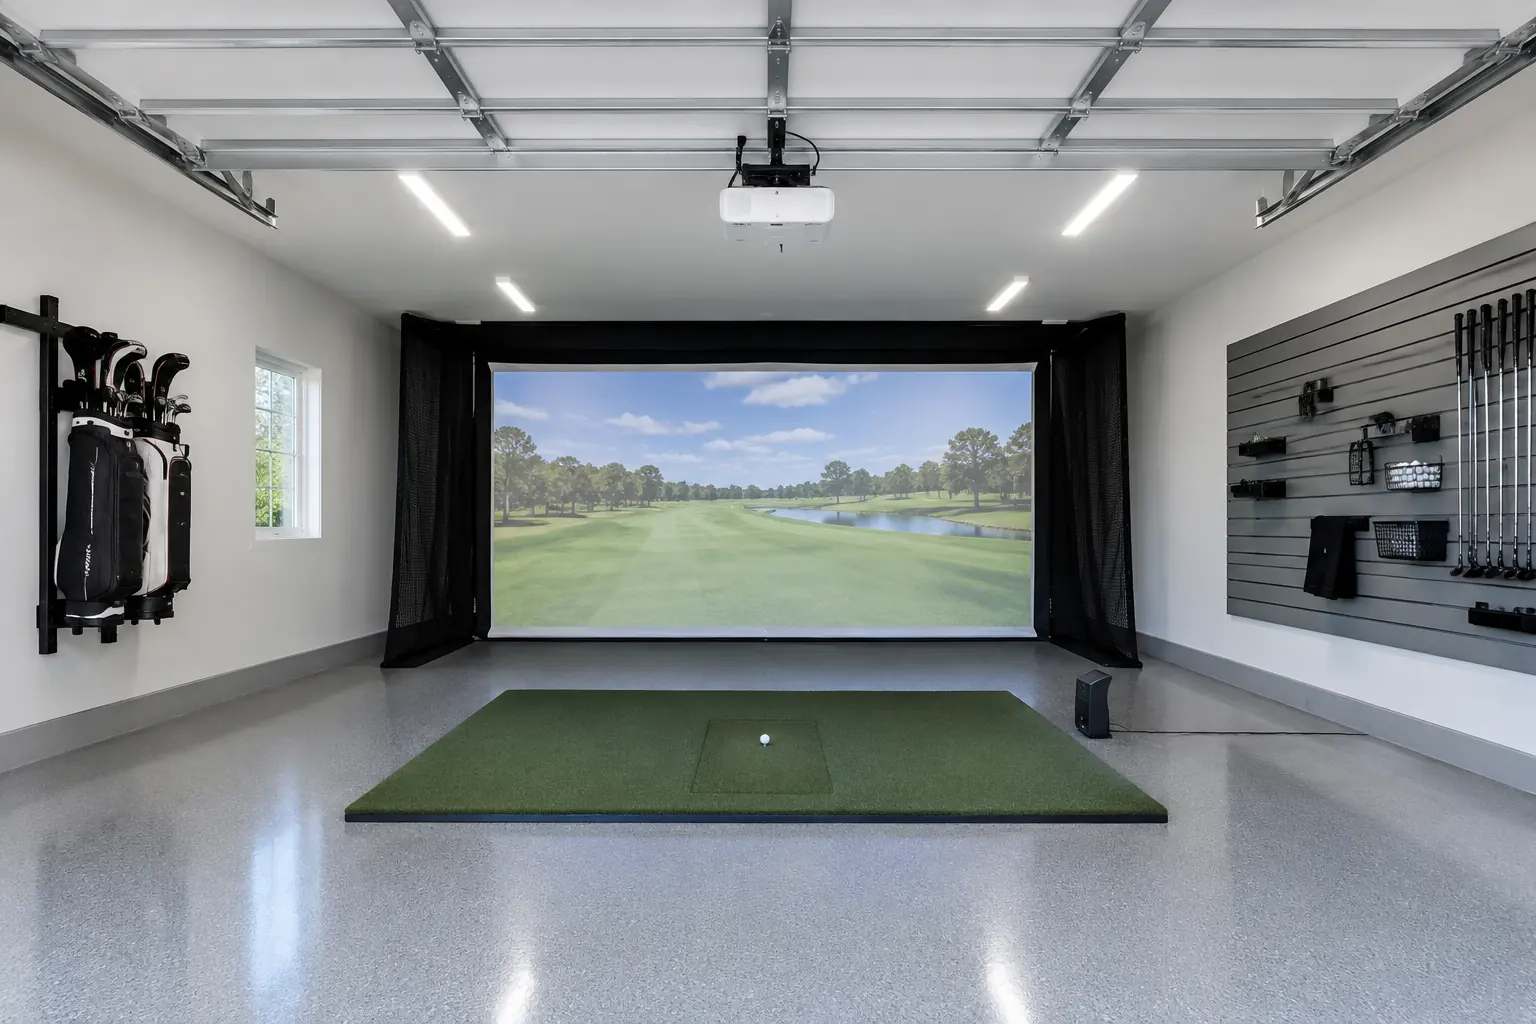
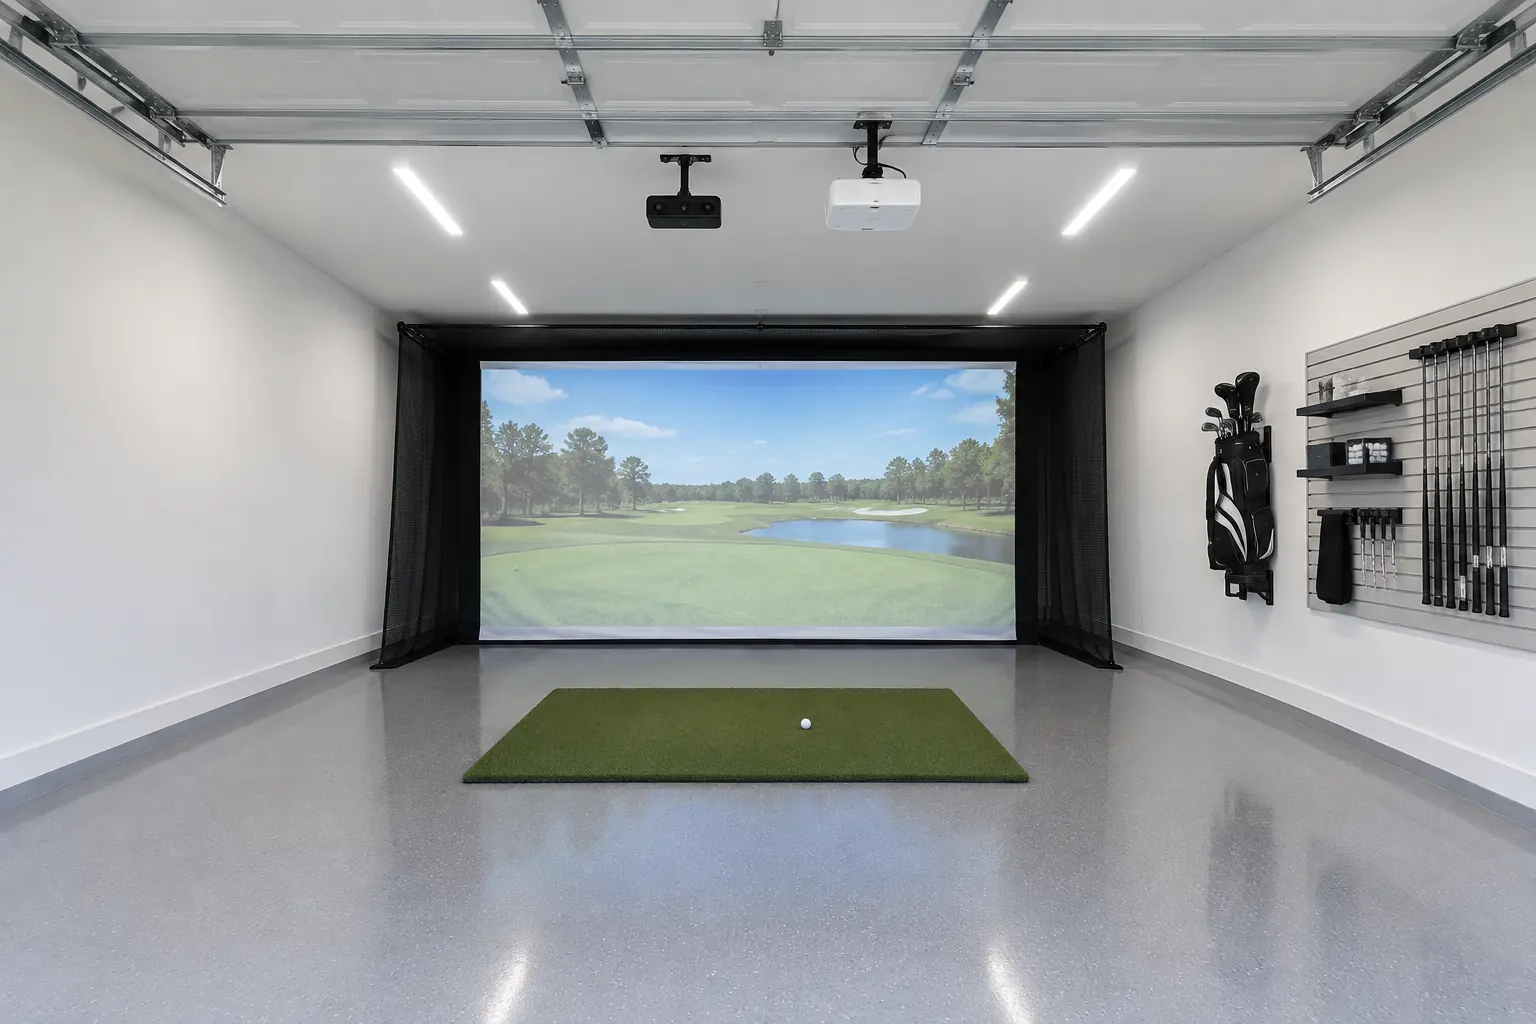
Show overhead launch monitors (ProTee VX) in photos and copy
- Replace the floor launch-monitor close-up with an overhead,
  ceiling-mounted unit above the hitting area.
- Regenerate the basement and garage room photos with ceiling-mounted
  units and a clear floor.
- Simulators page: E9 mainly installs the ProTee VX overhead system.

Claude-Session: https://claude.ai/code/session_01QXUUGkBCfmJxK8jyVqeBJW

diff --git a/simulators/index.html b/simulators/index.html
@@ -47,17 +47,17 @@
     <div class="split" style="margin-bottom:56px">
       <div>
         <p class="eyebrow">The heart of it</p>
-        <h2>It starts with the launch monitor.</h2>
-        <p class="lead">The launch monitor reads every shot. It decides how real the ball flight feels and is the biggest line in the budget, so we help you pick it first and build the rest of the room around it.</p>
+        <h2>Overhead launch monitors, out of the way.</h2>
+        <p class="lead">Most of our builds use the ProTee VX, an overhead launch monitor mounted on the ceiling above the hitting area. Nothing sits on the floor to trip over or hit, and the hitting area stays clean for right- and left-handed golfers.</p>
       </div>
-      <figure class="concept photo"><picture><source type="image/webp" srcset="/images/ai-launch-monitor-sm.webp 800w, /images/ai-launch-monitor-lg.webp 1400w" sizes="(max-width: 860px) 100vw, 560px"><img src="/images/ai-launch-monitor.jpg" width="1200" height="800" alt="Golf ball on a tee beside a launch monitor and a driver, with a simulator screen behind" loading="lazy" decoding="async"></picture></figure>
+      <figure class="concept photo"><picture><source type="image/webp" srcset="/images/ai-overhead-monitor-sm.webp 800w, /images/ai-overhead-monitor-lg.webp 1400w" sizes="(max-width: 860px) 100vw, 560px"><img src="/images/ai-overhead-monitor.jpg" width="1200" height="800" alt="Overhead launch monitor mounted on the ceiling above a golf ball on turf, with a golf course on the screen ahead" loading="lazy" decoding="async"></picture></figure>
     </div>
     <div class="center" style="margin-bottom:36px">
       <p class="eyebrow">What’s in a simulator</p>
       <h2>Five parts, one system.</h2>
     </div>
     <div class="grid g3">
-      <div class="card"><div class="icon"><svg width="24" height="24" viewBox="0 0 24 24" fill="none" stroke="currentColor" stroke-width="2" stroke-linecap="round" stroke-linejoin="round" aria-hidden="true"><rect x="2" y="7" width="20" height="13" rx="2"/><circle cx="12" cy="13.5" r="3.5"/><path d="M8 7l1.5-3h5L16 7"/></svg></div><h3>Launch monitor</h3><p>The heart of the system. High-speed cameras or radar measure ball speed, launch, spin and club path on every shot. This choice has the biggest effect on accuracy and price.</p></div>
+      <div class="card"><div class="icon"><svg width="24" height="24" viewBox="0 0 24 24" fill="none" stroke="currentColor" stroke-width="2" stroke-linecap="round" stroke-linejoin="round" aria-hidden="true"><rect x="2" y="7" width="20" height="13" rx="2"/><circle cx="12" cy="13.5" r="3.5"/><path d="M8 7l1.5-3h5L16 7"/></svg></div><h3>Launch monitor</h3><p>The heart of the system. We mainly install the ProTee VX, a ceiling-mounted camera system that measures ball speed, launch, spin and club path on every shot.</p></div>
       <div class="card"><div class="icon"><svg width="24" height="24" viewBox="0 0 24 24" fill="none" stroke="currentColor" stroke-width="2" stroke-linecap="round" stroke-linejoin="round" aria-hidden="true"><rect x="3" y="4" width="18" height="13" rx="1"/><path d="M8 21h8M12 17v4"/></svg></div><h3>Impact screen &amp; enclosure</h3><p>A tough, quiet screen you hit real balls into, with side and ceiling netting or padding to keep the room safe.</p></div>
       <div class="card"><div class="icon"><svg width="24" height="24" viewBox="0 0 24 24" fill="none" stroke="currentColor" stroke-width="2" stroke-linecap="round" stroke-linejoin="round" aria-hidden="true"><rect x="2" y="8" width="20" height="9" rx="2"/><circle cx="16" cy="12.5" r="2.5"/><path d="M6 12h4"/></svg></div><h3>Projector</h3><p>A short-throw projector mounted out of the way, sized to the screen so the picture is bright and your shadow stays off it.</p></div>
       <div class="card"><div class="icon"><svg width="24" height="24" viewBox="0 0 24 24" fill="none" stroke="currentColor" stroke-width="2" stroke-linecap="round" stroke-linejoin="round" aria-hidden="true"><path d="M2 20h20"/><path d="M5 20l1-6M9 20l-1-8M12 20V9M15 20l1-8M19 20l-1-6"/></svg></div><h3>Hitting mat &amp; turf</h3><p>A mat that’s easy on your joints and gives honest feedback, set into turf that finishes the room.</p></div>

diff --git a/CLAUDE.md b/CLAUDE.md
@@ -30,6 +30,8 @@ E9 is a new business. Do not claim past installs, client counts, reviews,
 "most popular", response times, or staff (e.g. instructors) that do not exist.
 
 Images:
+- E9 mainly installs overhead launch monitors (ProTee VX). Photos must not show
+  floor-standing launch monitors.
 - images/ai-*.{jpg,webp} are AI-generated (Figma AI image, Nov 2026). They are
   not E9 installs. Room photos (ai-basement, ai-garage, ai-commercial,
   ai-home-swing) are shown as examples of what E9 designs; where a room photo
